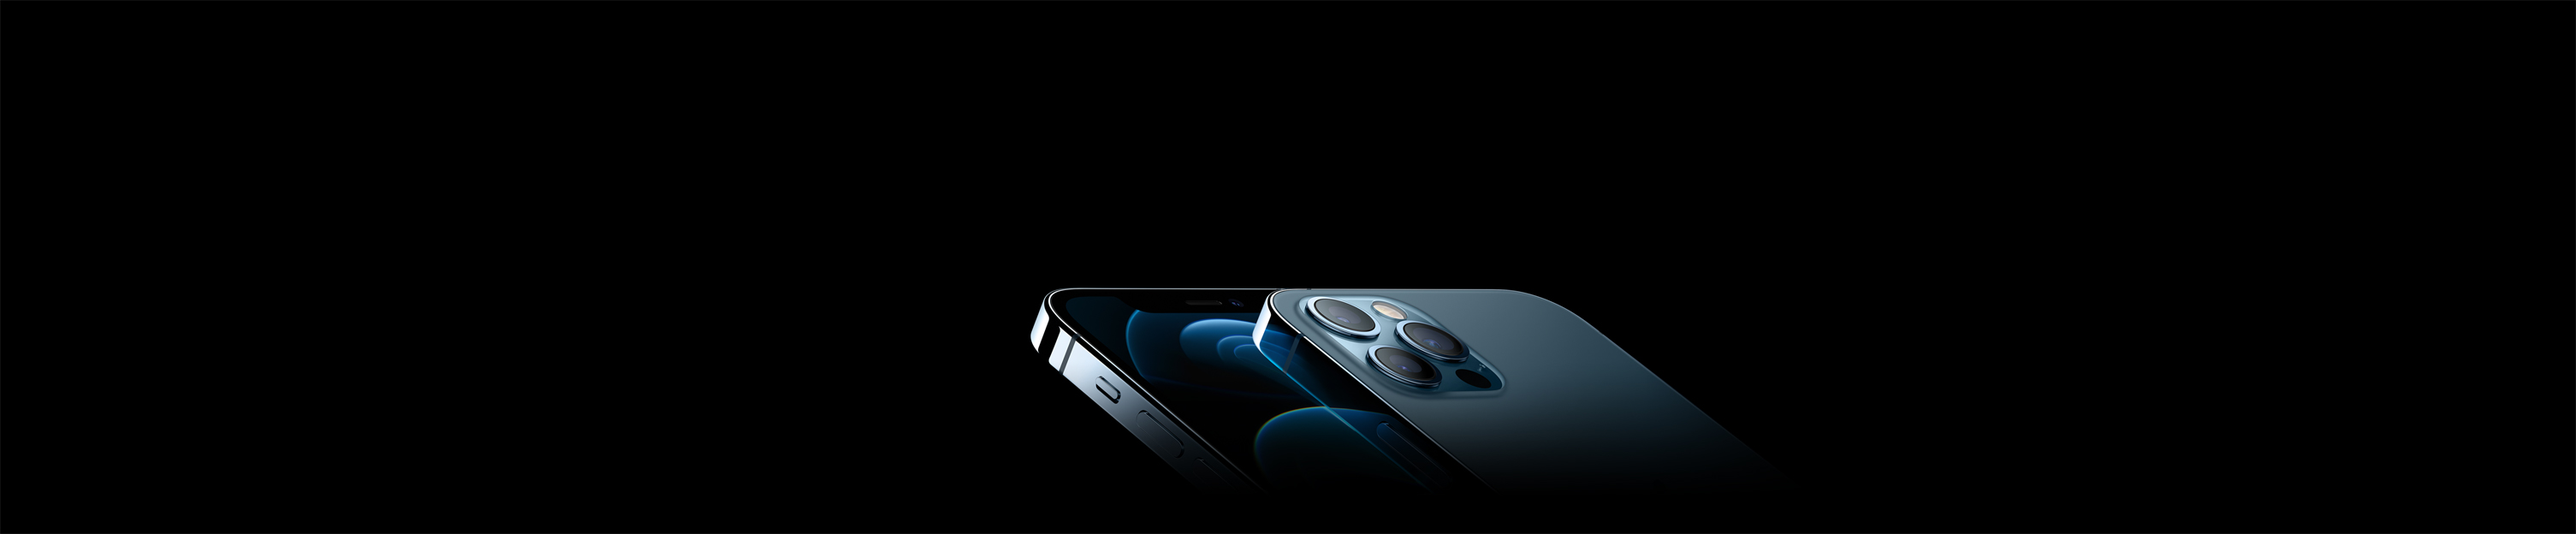
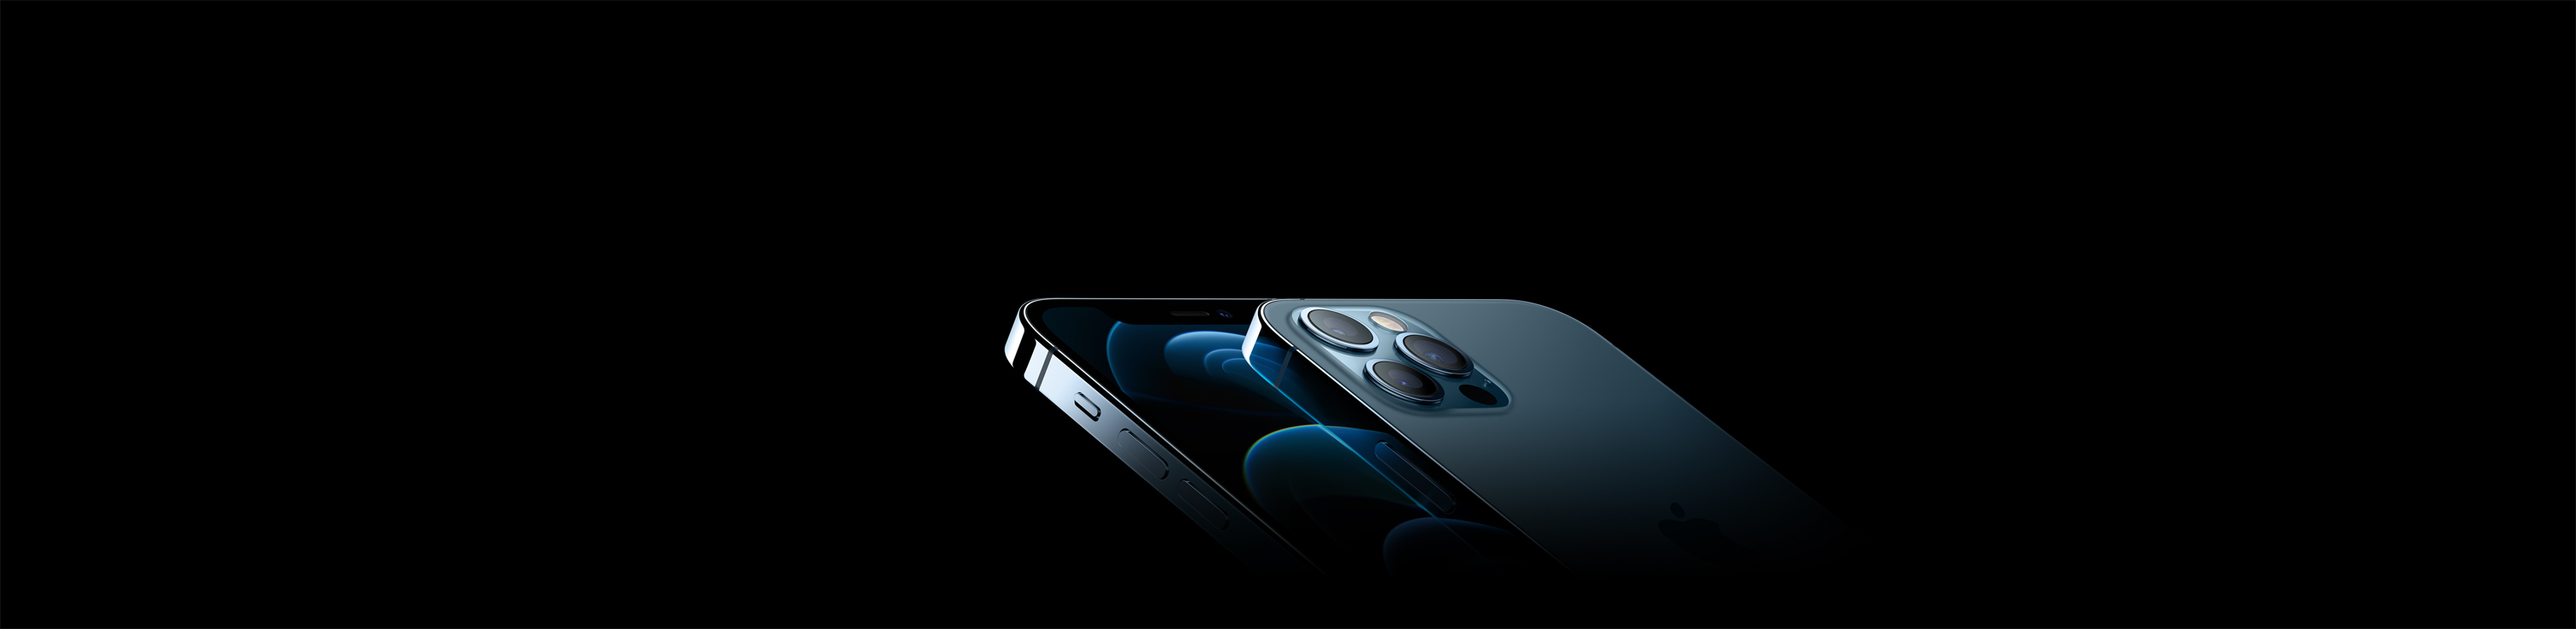
update Apple

Changed region(s): [[0.3748, 0.4567, 0.687, 0.8526]]

diff --git a/demo/Apple/css/index.css b/demo/Apple/css/index.css
@@ -11,6 +11,7 @@
 body {
     font-family: "SF Pro Text","Myriad Set Pro","SF Pro Icons","Helvetica Neue","Helvetica","Arial",sans-serif;
     font-size: 14px;
+    background-color: #fff;
 }
 /* 超連結 */
 a {
@@ -26,6 +27,8 @@ a {
 .nav-wrap {
     width: 100%;
     background-color: rgba(0, 0, 0, .8);
+    position: fixed;
+    z-index: 9999;
 }
 /* 導航欄 */
 .nav-wrap .nav {
@@ -59,11 +62,12 @@ a {
 }
 
 /* --------------- Banner1樣式 --------------- */
-
+/* Banner1 容器 */
 .banner1-wrap {
     position: relative;
+    top: 44px;
 }
-
+/* Banner1 文字 */
 .banner1-wrap .text{
     position: absolute;
     top: 0;
@@ -75,21 +79,21 @@ a {
     padding-top: 50px;
     color: #bfa;
 }
-
+/* Banner1 圖片 */
 .banner1-wrap .banner1 {
     background: url('../img/banner1/iphone_12_pro.jpg');
     background-position-x: center;
-    background-position-y: -60px;
+    /* background-position-y: -60px; */
     background-size: cover;
     height: 732px;
 }
-
+/* Banner1 標題 */
 .banner1-wrap .title {
     color: #f5f5f7;
     font-size: 50px;
     font-weight: bold;
 }
-
+/* Banner1 副標題 */
 .banner1-wrap .sub-title {
     color: #f5f5f7;
     height: 31px;
@@ -97,34 +101,33 @@ a {
     margin: 12px 0;
     /* background-color: red; */
 }
-
+/* Banner1 內容資訊 */
 .banner1-wrap .info {
     color: #86868b;
     font-size: 18px;
 }
-
+/* Banner1 P1, P2內容高度 */
 .banner1-wrap .info .p1,
 .banner1-wrap .info .p2 {
     height: 25px;
 }
-
+/* Banner1 連結, 圖標 樣式 */
 .banner1-wrap .link a,
 .banner1-wrap .link .fa-angle-right {
     margin-top: 25px;
     font-size: 19px;
     color: #2997ff;
 }
-
+/* Banner1 圖標 樣式 */
 .banner1-wrap .link .fa-angle-right {
     font-size: 14px;
-    /* padding-top: 5px; */
     margin-left: 5px;
 }
-
+/* Banner1 a1連結 樣式 */
 .banner1-wrap .a1 {
     margin-right: 50px;
 }
-
+/* Banner1 連結 滑鼠移入後顏色改變 */
 .banner1-wrap .link a:hover {
     text-decoration: underline #2997ff;
     color: #2997ff;
@@ -155,4 +158,19 @@ a {
 /* 通知連結圖標 */
 .notify-wrap .fa-angle-right {
     font-size: 10px;
+}
+/* --------------- Banner2樣式 --------------- */
+
+.banner2-wrap {
+    margin: 12px 0;
+    /* height: 692px; */
+    background-color: #bfa;
+}
+
+.banner2-wrap .banner2 {
+    background-color: #bfa;
+    height: 692px;
+    background: url('../img/banner2/iphone_12_large.jpg');
+    background-position-x: center;
+    /* background-position-y: -100px; */
 }

diff --git a/demo/Apple/index.html b/demo/Apple/index.html
@@ -59,7 +59,7 @@
             </li></a>
         </ul>
     </div>
-    <!-- Banner1 容器 -->
+    <!-- Banner1容器 -->
     <div class="banner1-wrap">
         <!-- Banner1圖片 -->
         <div class="banner1"></div>
@@ -97,6 +97,11 @@
                 </a>
             </div>
         </div>
+    </div>
+    <!-- Banner2容器 -->
+    <div class="banner2-wrap">
+        <!-- Banner2圖片 -->
+        <div class="banner2"></div>
     </div>
 </body>
 </html>
